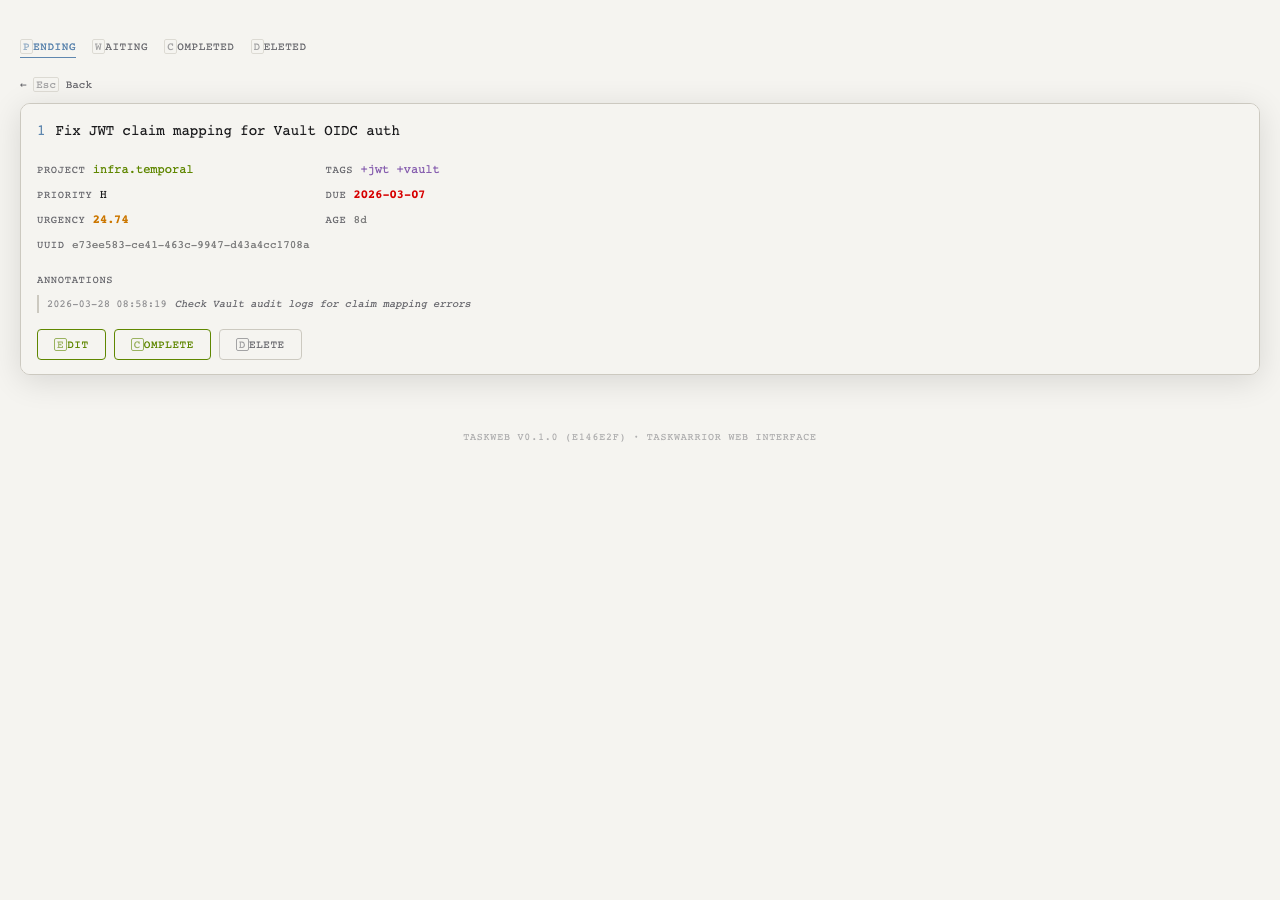
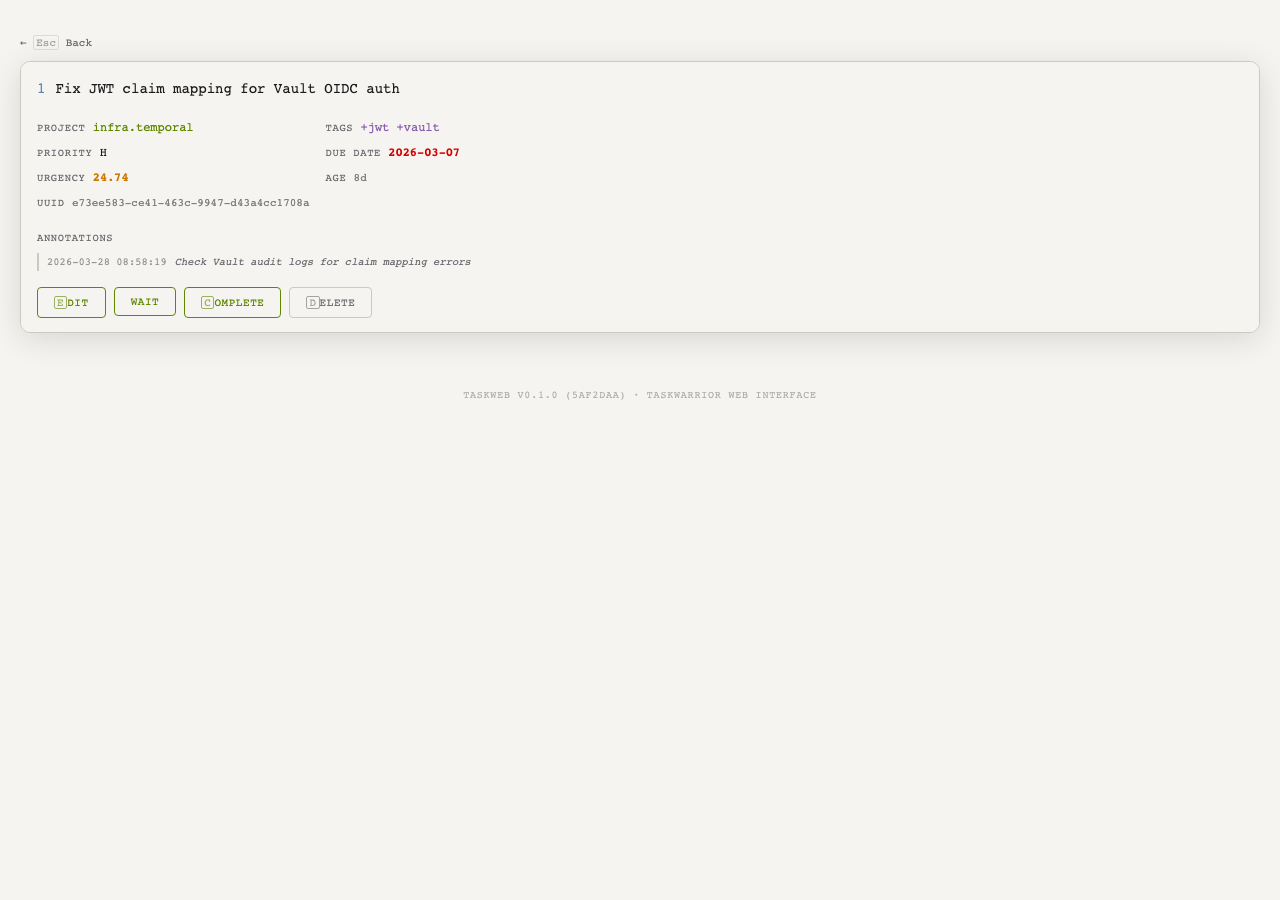
Fix wait date always setting status to waiting
Wait date present = waiting, cleared = pending.
Remove status dropdown dependency for wait coupling.

Changed region(s): [[0.0, 0.0311, 0.3438, 0.4044], [0.5312, 0.4667, 0.5625, 0.4978]]

diff --git a/taskweb/server.py b/taskweb/server.py
@@ -351,15 +351,12 @@ def create_app() -> Flask:
         annotation = request.form.get("annotation", "").strip()
 
         # Auto-switch status based on wait date
-        status = request.form.get("status", "").strip()
-        if status and status not in ("pending", "waiting"):
-            status = ""
-        if wait and status != "pending":
+        if wait:
             status = "waiting"
         elif not wait and task.status == "waiting":
             status = "pending"
-        elif status == "pending" and wait:
-            wait = ""  # Clear wait when explicitly set to pending
+        else:
+            status = ""
 
         if edit_task(
             uuid,
